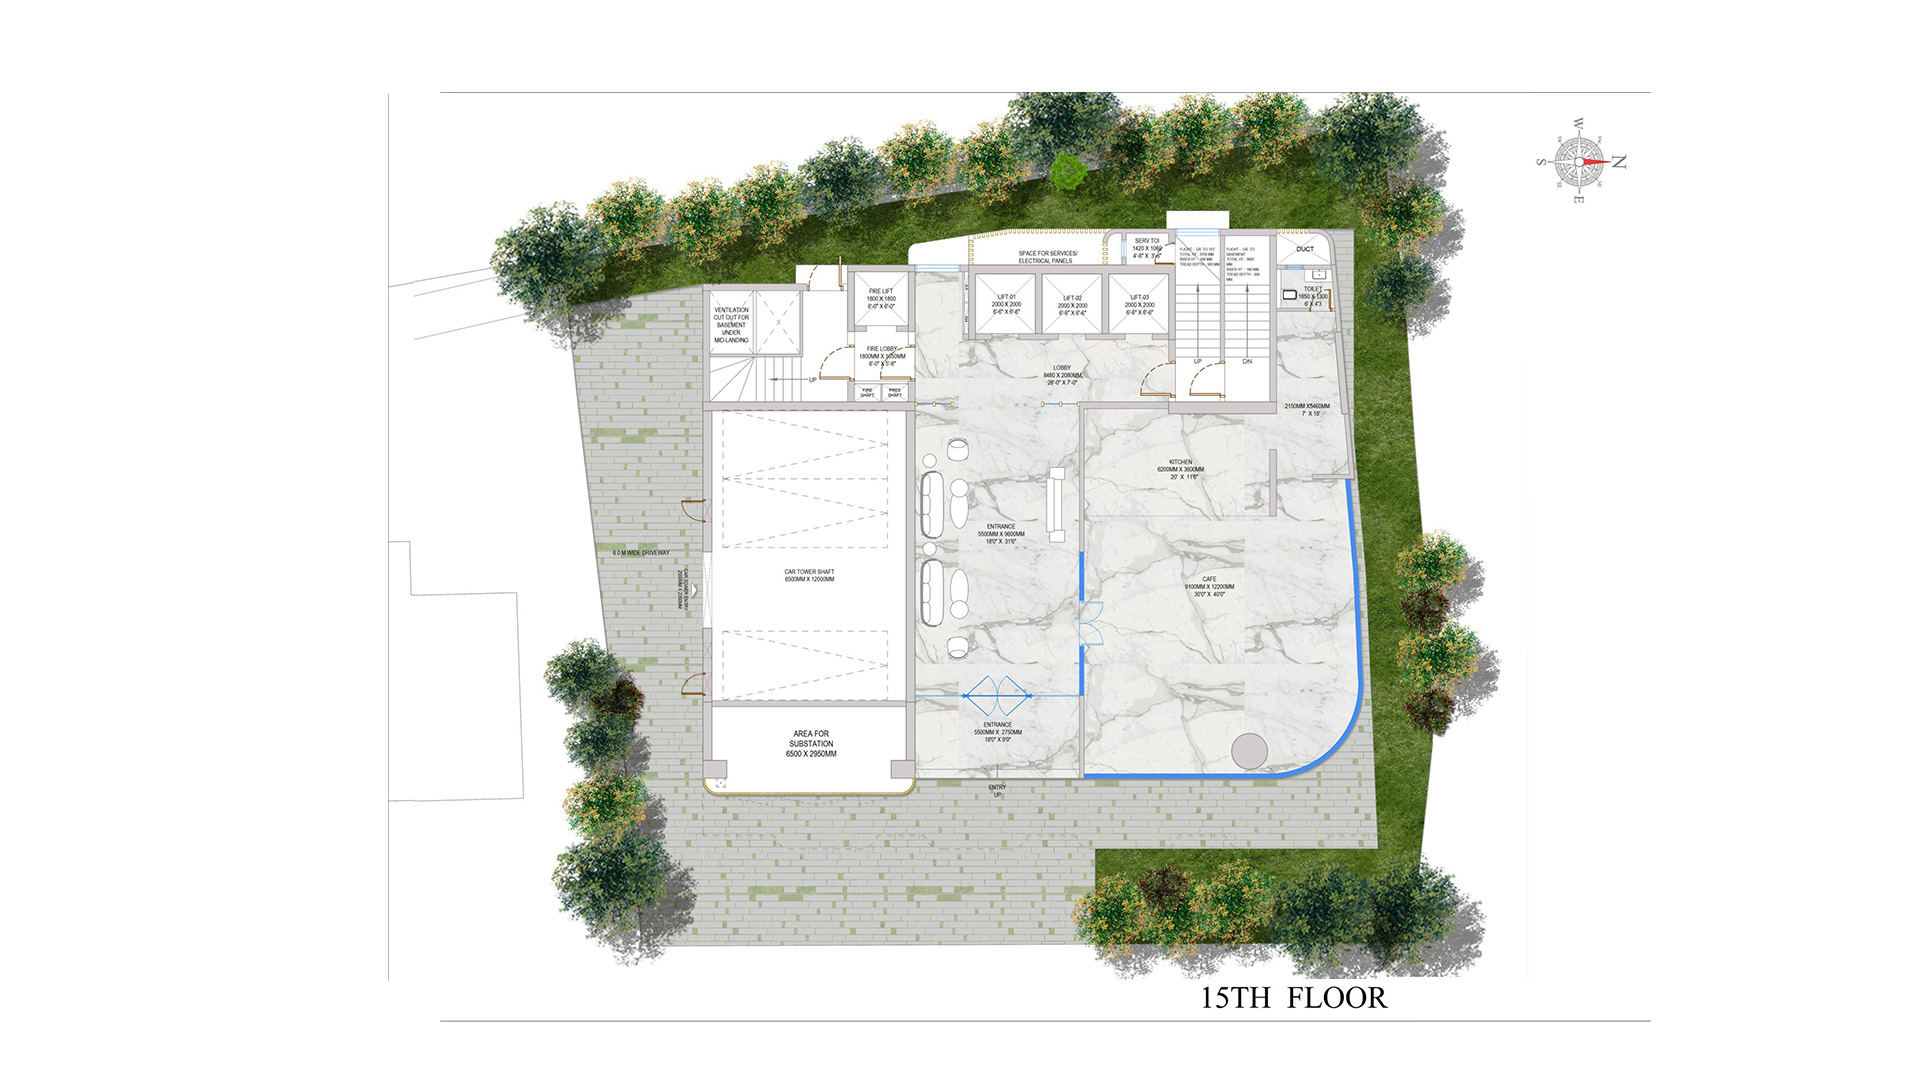
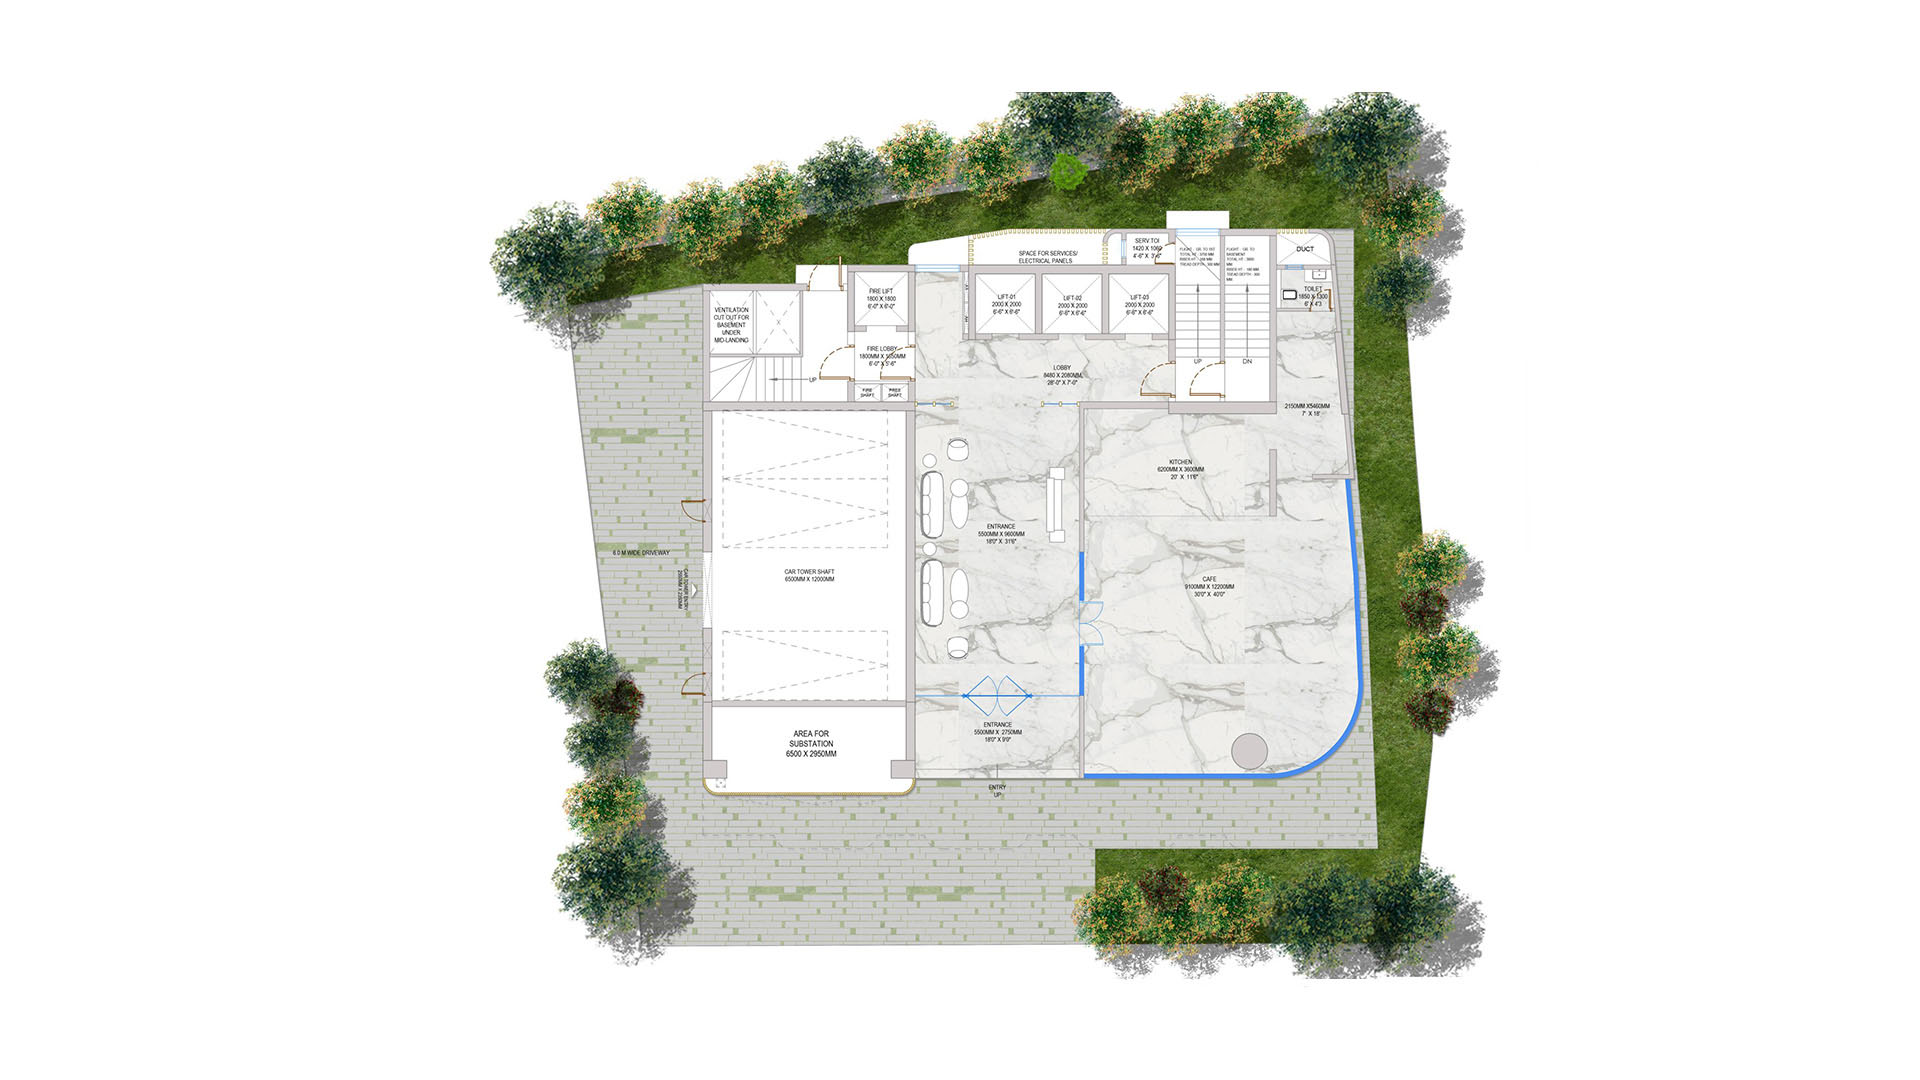
compass added fp updated

Changed region(s): [[0.625, 0.9167, 0.7188, 0.9472], [0.8125, 0.1222, 0.8438, 0.1833]]

diff --git a/src/components/Building/FloorPlanOverlay.jsx b/src/components/Building/FloorPlanOverlay.jsx
@@ -4,6 +4,8 @@ import { getFloorPano, getFloorPanoHeight } from "./panoData";
 import notanMap from "../../assets/floorplanoverbg.png";
 import NotandasNMark from "../SvgAnimations/NotandasNMark";
 import { BUILDING_LOGOS, TIGHT_CROPPED_LOGOS } from "./buildingLogos";
+import FloorPlanCompass from "./FloorPlanCompass";
+import { getFloorPlanCompass } from "./floorPlanCompassData";
 import { gsap } from "gsap";
 import { useGSAP } from "@gsap/react";
 
@@ -15,6 +17,10 @@ import { useGSAP } from "@gsap/react";
  * Clicking a unit opens that unit's 360° pano (onOpenPano, framed per region —
  * see REGION_PANO_MAP in panoData.js). A small toolbar zooms the plan in/out
  * and resets it; when zoomed the plan can be dragged to pan around.
+ *
+ * A north compass sits on the plan itself (bottom-left by default), turned to
+ * match how that building's plans are oriented — placement per building lives
+ * in floorPlanCompassData.js, and `?fpcompass=1` opens the panel used to dial it in.
  */
 const MIN_ZOOM = 0.6;
 const MAX_ZOOM = 4;
@@ -65,7 +71,7 @@ const FloorPlanOverlay = ({
   // explicit 80vh height never shrinks back), which made the photo letterbox
   // while the overlay kept filling the full box on narrow/scaled screens.
   const [, , vbW, vbH] = viewBox ? viewBox.split(/\s+/).map(Number) : [];
-  const planAspect = vbW && vbH ? vbW / vbH : null;
+  const viewBoxAspect = vbW && vbH ? vbW / vbH : null;
   // Some floors (e.g. Edge's terrace) have a 360° capture but no detailed plan
   // yet — still let the visitor open the pano from the "plan coming soon" state.
   const hasPano = !!getFloorPano(buildingId, floor);
@@ -75,6 +81,59 @@ const FloorPlanOverlay = ({
   const [hovered, setHovered] = useState(null);
   const [dragging, setDragging] = useState(false);
   const imgRef = useRef();
+
+  // The photo's own ratio, read once it loads. Floors with a plan photo but no
+  // cut-out SVG (Space/Jewel basements) have no viewBox to size the box from —
+  // without this the box keeps the full 80vh, the photo letterboxes inside it,
+  // and anything positioned in the box's coordinates (the compass) drifts off
+  // the paper. Null until the photo loads, and reset whenever it changes.
+  const [imgAspect, setImgAspect] = useState(null);
+  useEffect(() => {
+    // a cached photo can finish loading before onLoad below is wired up, so
+    // read it straight off the element when it's already complete
+    const el = imgRef.current;
+    setImgAspect(
+      el?.complete && el.naturalWidth
+        ? el.naturalWidth / el.naturalHeight
+        : null,
+    );
+  }, [planImg]);
+  const planAspect = viewBoxAspect ?? imgAspect;
+
+  // North compass placement for this building/floor, from floorPlanCompassData.js.
+  const compass = getFloorPlanCompass(buildingId, floor);
+  // ?fpcompass=1 opens the placement panel (an authoring aid, off in normal
+  // visits); `nudge` is the trial offset it applies live on top of the config.
+  const [tuning] = useState(
+    () => new URLSearchParams(window.location.search).get("fpcompass") === "1",
+  );
+  const [nudge, setNudge] = useState({ rotation: 0, size: 0, x: 0, y: 0 });
+  const [copied, setCopied] = useState(false);
+
+  // what actually gets drawn — the config plus whatever the panel is trying out
+  // (all zeroes in a normal visit)
+  const compassAim = {
+    ...compass,
+    rotation: Math.round(compass.rotation + nudge.rotation),
+    size: Math.round((compass.size + nudge.size) * 10) / 10,
+    x: Math.round((compass.x + nudge.x) * 10) / 10,
+    y: Math.round((compass.y + nudge.y) * 10) / 10,
+  };
+
+  // Panel's copy: the placement you just dialled in, ready to paste over this
+  // building's entry in floorPlanCompassData.js (or under its `floors` map when the
+  // one floor is the odd one out).
+  const copyCompass = () => {
+    const snippet =
+      `// FLOOR_PLAN_COMPASS["${buildingId}"] — or nest it under that\n` +
+      `// building's floors: { ${floor ? JSON.stringify(floor.isGround ? "ground" : floor.isTerrace ? "terrace" : floor.num) : "…"}: { … } } for this floor only\n` +
+      `rotation: ${compassAim.rotation}, size: ${compassAim.size}, x: ${compassAim.x}, y: ${compassAim.y},`;
+
+    navigator.clipboard?.writeText(snippet).then(() => {
+      setCopied(true);
+      setTimeout(() => setCopied(false), 1600);
+    });
+  };
 
   const drag = useRef(null); // { startX, startY, originX, originY }
   const moved = useRef(false); // true once a drag actually pans, to swallow the click
@@ -359,6 +418,10 @@ const FloorPlanOverlay = ({
                   src={planImg}
                   alt={`${buildingName} ${floorTitle} plan`}
                   draggable="false"
+                  onLoad={(e) => {
+                    const { naturalWidth: w, naturalHeight: h } = e.currentTarget;
+                    if (w && h) setImgAspect(w / h);
+                  }}
                   className="block h-full w-full rounded-sm border-2 border-[#1f2a40]/20 object-contain shadow-[0_10px_24px_rgba(31,42,64,0.1)] select-none"
                 />
               ) : (
@@ -405,6 +468,19 @@ const FloorPlanOverlay = ({
                   })}
                 </svg>
               )}
+
+              {/* north compass, drawn on the plan itself — last so it sits over
+                  the hover cut-outs, pointer-events-none so it never eats a
+                  unit click */}
+              {compassAim.visible && (
+                <FloorPlanCompass
+                  rotation={compassAim.rotation}
+                  size={compassAim.size}
+                  x={compassAim.x}
+                  y={compassAim.y}
+                  opacity={compassAim.opacity}
+                />
+              )}
             </div>
           ) : (
             <div className="text-center text-[#1f2a40]">
@@ -435,6 +511,65 @@ const FloorPlanOverlay = ({
             <div className="pointer-events-none absolute top-4 left-1/2 -translate-x-1/2 rounded-full border border-[#b8860b]/25 bg-white px-4 py-1.5 text-sm font-medium tracking-wide text-[#4E5157] shadow-[0_10px_24px_rgba(31,42,64,0.12)]">
               {regions[hovered].name}
               <span className="ml-2 text-[#4E5157]">· click to view pano</span>
+            </div>
+          )}
+
+          {/* compass placement panel (?fpcompass=1) — turn it until north
+              matches the plan, size it, walk it to the corner you want, then
+              Copy into floorPlanCompassData.js */}
+          {available && tuning && (
+            <div className="absolute top-4 left-4 z-30 w-60 rounded-md border border-[#1f2a40]/15 bg-white/95 p-3 font-mono text-[11px] text-[#1f2a40]/80 shadow-[0_18px_40px_rgba(31,42,64,0.22)] backdrop-blur-md">
+              <p className="mb-2 text-[10px] tracking-[0.18em] text-[#b8860b] uppercase">
+                Compass placement
+              </p>
+              <p className="truncate text-[#4E5157]/60">
+                {buildingId} · {floorTitle}
+              </p>
+
+              {[
+                { label: "rotation", axis: "rotation", unit: "°", steps: [-45, -15, -5, 5, 15, 45] },
+                { label: "size", axis: "size", unit: "%", steps: [-5, -1, -0.5, 0.5, 1, 5] },
+                { label: "x", axis: "x", unit: "%", steps: [-5, -1, -0.5, 0.5, 1, 5] },
+                { label: "y", axis: "y", unit: "%", steps: [-5, -1, -0.5, 0.5, 1, 5] },
+              ].map(({ label, axis, unit, steps }) => (
+                <div key={axis} className="mt-2">
+                  <p className="text-[#1f2a40]">
+                    {label}{" "}
+                    <span className="text-[#b8860b]">
+                      {compassAim[axis]}
+                      {unit}
+                    </span>
+                  </p>
+                  <div className="mt-1 flex items-center gap-1">
+                    {steps.map((step) => (
+                      <button
+                        key={step}
+                        onClick={() =>
+                          setNudge((n) => ({ ...n, [axis]: n[axis] + step }))
+                        }
+                        className="flex-1 rounded-sm border border-[#1f2a40]/20 py-1 text-[10px] transition-colors hover:border-[#b8860b]/70 hover:text-[#b8860b]"
+                      >
+                        {step > 0 ? `+${step}` : step}
+                      </button>
+                    ))}
+                  </div>
+                </div>
+              ))}
+
+              <div className="mt-3 flex items-center gap-1">
+                <button
+                  onClick={() => setNudge({ rotation: 0, size: 0, x: 0, y: 0 })}
+                  className="flex-1 rounded-sm border border-[#1f2a40]/20 py-1 transition-colors hover:border-[#b8860b]/70 hover:text-[#b8860b]"
+                >
+                  Reset
+                </button>
+                <button
+                  onClick={copyCompass}
+                  className="flex-1 rounded-sm border border-[#1f2a40]/20 py-1 transition-colors hover:border-[#b8860b]/70 hover:text-[#b8860b]"
+                >
+                  {copied ? "Copied!" : "Copy"}
+                </button>
+              </div>
             </div>
           )}
 

diff --git a/src/components/Building/floorPlanCompassData.js b/src/components/Building/floorPlanCompassData.js
@@ -1,0 +1,93 @@
+/**
+ * North compass drawn on top of the floor-plan photo (FloorPlanOverlay).
+ *
+ * The artwork is one shared asset (assets/floorPlan_Compass.svg, drawn with
+ * North straight up). Every plan is shot at its own orientation, so each
+ * building says how far to turn that artwork, how big to draw it and where on
+ * the plan it should sit.
+ *
+ * ── The four knobs ─────────────────────────────────────────────────────────
+ *   • rotation — degrees CLOCKWISE to turn the compass so its N arm points at
+ *     true north ON THIS PLAN. 0 = north is up the page, 90 = north is to the
+ *     right, 180 = north is down the page, -90 (or 270) = north is to the left.
+ *   • size     — diameter, as a % of the plan photo's WIDTH. One number for
+ *     both axes (the artwork is square), so it scales with the plan on every
+ *     screen size instead of drifting.
+ *   • x / y    — where the compass's CENTRE sits, as a % of the plan photo's
+ *     width / height. 0,0 is the plan's top-left corner, 100,100 the
+ *     bottom-right. The default parks it in the bottom-left corner.
+ *   • opacity  — 0–1, for plans whose corner artwork is busy.
+ *
+ * Coordinates are percentages of the plan box (never pixels) because the box
+ * is sized from the plan's aspect ratio and then zoomed/panned — a percentage
+ * keeps the compass glued to the same spot on the paper at any zoom.
+ *
+ * ── Dialling a building in ─────────────────────────────────────────────────
+ * Open any floor plan with `?fpcompass=1` on the URL. A panel appears with
+ * nudges for all four knobs; drag them until the compass sits right, hit Copy
+ * and paste the snippet into FLOOR_PLAN_COMPASS below. Nothing else to wire up.
+ *
+ * Scope: a building's entry is the default for all its floors. When one floor's
+ * plan is shot differently (a rotated terrace sheet, say), add it under that
+ * building's `floors` map, keyed exactly like panoData's floorKey — "ground",
+ * "terrace", or the floor number. Floor wins over building, building over
+ * DEFAULT_COMPASS, and any key you leave out falls through to the level below.
+ */
+
+/** Shape every building/floor entry falls back to. */
+export const DEFAULT_COMPASS = {
+  rotation: 0,
+  size: 10, // % of plan width
+  x: 96, // % from the plan's left edge → bottom-left corner
+  y: 93.6, // % from the plan's top edge
+  visible: true,
+};
+
+/**
+ * Per-building compass placement, keyed by the /projects/:id route id (the same
+ * ids as BUILDING_LOGOS / BUILDINGS). Only list what differs from
+ * DEFAULT_COMPASS; anything omitted is inherited.
+ */
+export const FLOOR_PLAN_COMPASS = {
+  "notan-dc": {
+    rotation: 0,
+  },
+  "notan-edge": {
+    rotation: 0,
+  },
+  "notan-jewel": {
+    rotation: 0,
+  },
+  "notan-space": {
+    rotation: 0,
+  },
+  "notan-terrace": {
+    rotation: 0,
+  },
+  "notan-crown": {
+    rotation: 0,
+  },
+  "notan-views": {
+    rotation: 0,
+  },
+  "notan-lands-end": {
+    rotation: 0,
+  },
+};
+
+/** Same key panoData uses: "ground", "terrace", or the floor number. */
+const floorKey = (floor) =>
+  floor?.isGround ? "ground" : floor?.isTerrace ? "terrace" : floor?.num;
+
+/**
+ * Resolve the compass placement for one building floor: DEFAULT_COMPASS, with
+ * the building's entry laid over it, with that floor's override laid over that.
+ * Always returns a complete config, so callers never have to null-check a knob.
+ */
+export const getFloorPlanCompass = (buildingId, floor) => {
+  const building = FLOOR_PLAN_COMPASS[buildingId] ?? {};
+  const { floors, ...buildingCfg } = building;
+  const floorCfg = floor ? (floors?.[floorKey(floor)] ?? {}) : {};
+
+  return { ...DEFAULT_COMPASS, ...buildingCfg, ...floorCfg };
+};

diff --git a/src/components/Building/FloorPlanCompass.jsx b/src/components/Building/FloorPlanCompass.jsx
@@ -1,0 +1,50 @@
+import compassSvg from "../../assets/floorPlan_Compass.svg";
+
+/**
+ * The north compass laid on a floor-plan photo.
+ *
+ * Renders as a child of the plan box, positioned in the plan's own percentage
+ * space, so it pans and zooms with the paper it's drawn on and stays glued to
+ * the same corner at every screen size. Placement comes from
+ * floorPlanCompassData.js — see that file for what each knob means.
+ *
+ * `rotation` turns the artwork clockwise about its own centre; the asset is
+ * drawn with North up, so 0 means north is up the page.
+ */
+const FloorPlanCompass = ({
+  rotation = 0,
+  size = 13,
+  x = 10,
+  y = 85,
+  opacity = 0.92,
+  className = "",
+  style,
+}) => (
+  <div
+    aria-hidden="true"
+    className={`pointer-events-none absolute select-none ${className}`}
+    style={{
+      // width drives the box; aspect-ratio keeps it square (the artwork's
+      // viewBox is 1254×1254), so one `size` number holds on any plan ratio
+      left: `${x}%`,
+      top: `${y}%`,
+      width: `${size}%`,
+      aspectRatio: 1,
+      transform: "translate(-50%, -50%)",
+      opacity,
+      ...style,
+    }}
+  >
+    <img
+      src={compassSvg}
+      alt=""
+      draggable="false"
+      className="block h-full w-full object-contain select-none drop-shadow-[0_2px_6px_rgba(31,42,64,0.25)]"
+      // rotate the artwork inside its already-centred box, so `rotation` never
+      // moves the compass off the spot x/y put it on
+      style={{ transform: `rotate(${rotation}deg)` }}
+    />
+  </div>
+);
+
+export default FloorPlanCompass;
